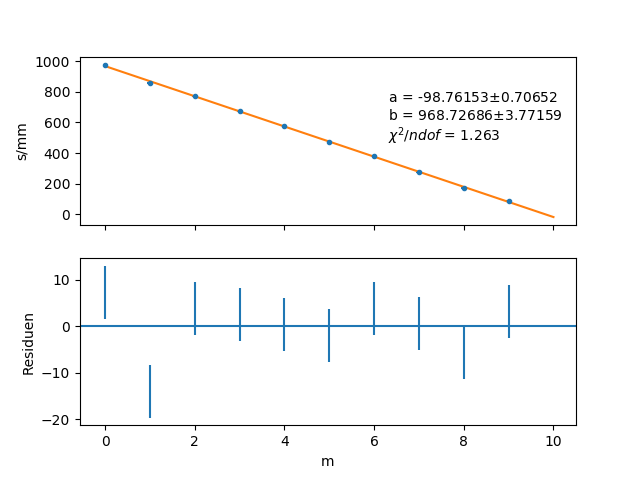
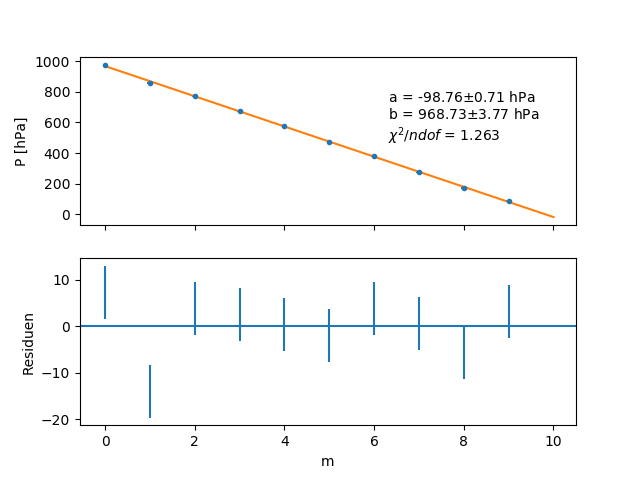
Plot Aufbau A im Format angepasst

Changed region(s): [[0.5938, 0.1757, 0.875, 0.2636], [0.0, 0.2343, 0.0625, 0.3515]]

diff --git a/grundpraktikum2/Optik 2/Python/Luftdruck_A.py b/grundpraktikum2/Optik 2/Python/Luftdruck_A.py
@@ -17,8 +17,8 @@ def linreg(m,data1,xerr, yerr):
     ax1 = plt.subplot(211)
     plt.errorbar(m,data1,xerr = xerr,yerr = yerr,linestyle = 'None',marker = '.')
     plt.plot(x_axis,a*x_axis+b)
-    plt.ylabel('s/mm')
-    plt.figtext(0.60,0.70,' a = {}$\pm${} \n b = {}$\pm${} \n $\chi^2/ndof$ = {}'.format(round(a,5),round(ea,5),round(b,5),round(eb,5),round(chiq_ndof,3)))
+    plt.ylabel('P [hPa]')
+    plt.figtext(0.60,0.70,' a = {}$\pm${} hPa \n b = {}$\pm${} hPa \n $\chi^2/ndof$ = {}'.format(round(a,2),round(ea,2),round(b,2),round(eb,2),round(chiq_ndof,3)))
     plt.setp(ax1.get_xticklabels(),visible=False)
     
     ax2 = plt.subplot(212,sharex=ax1)
